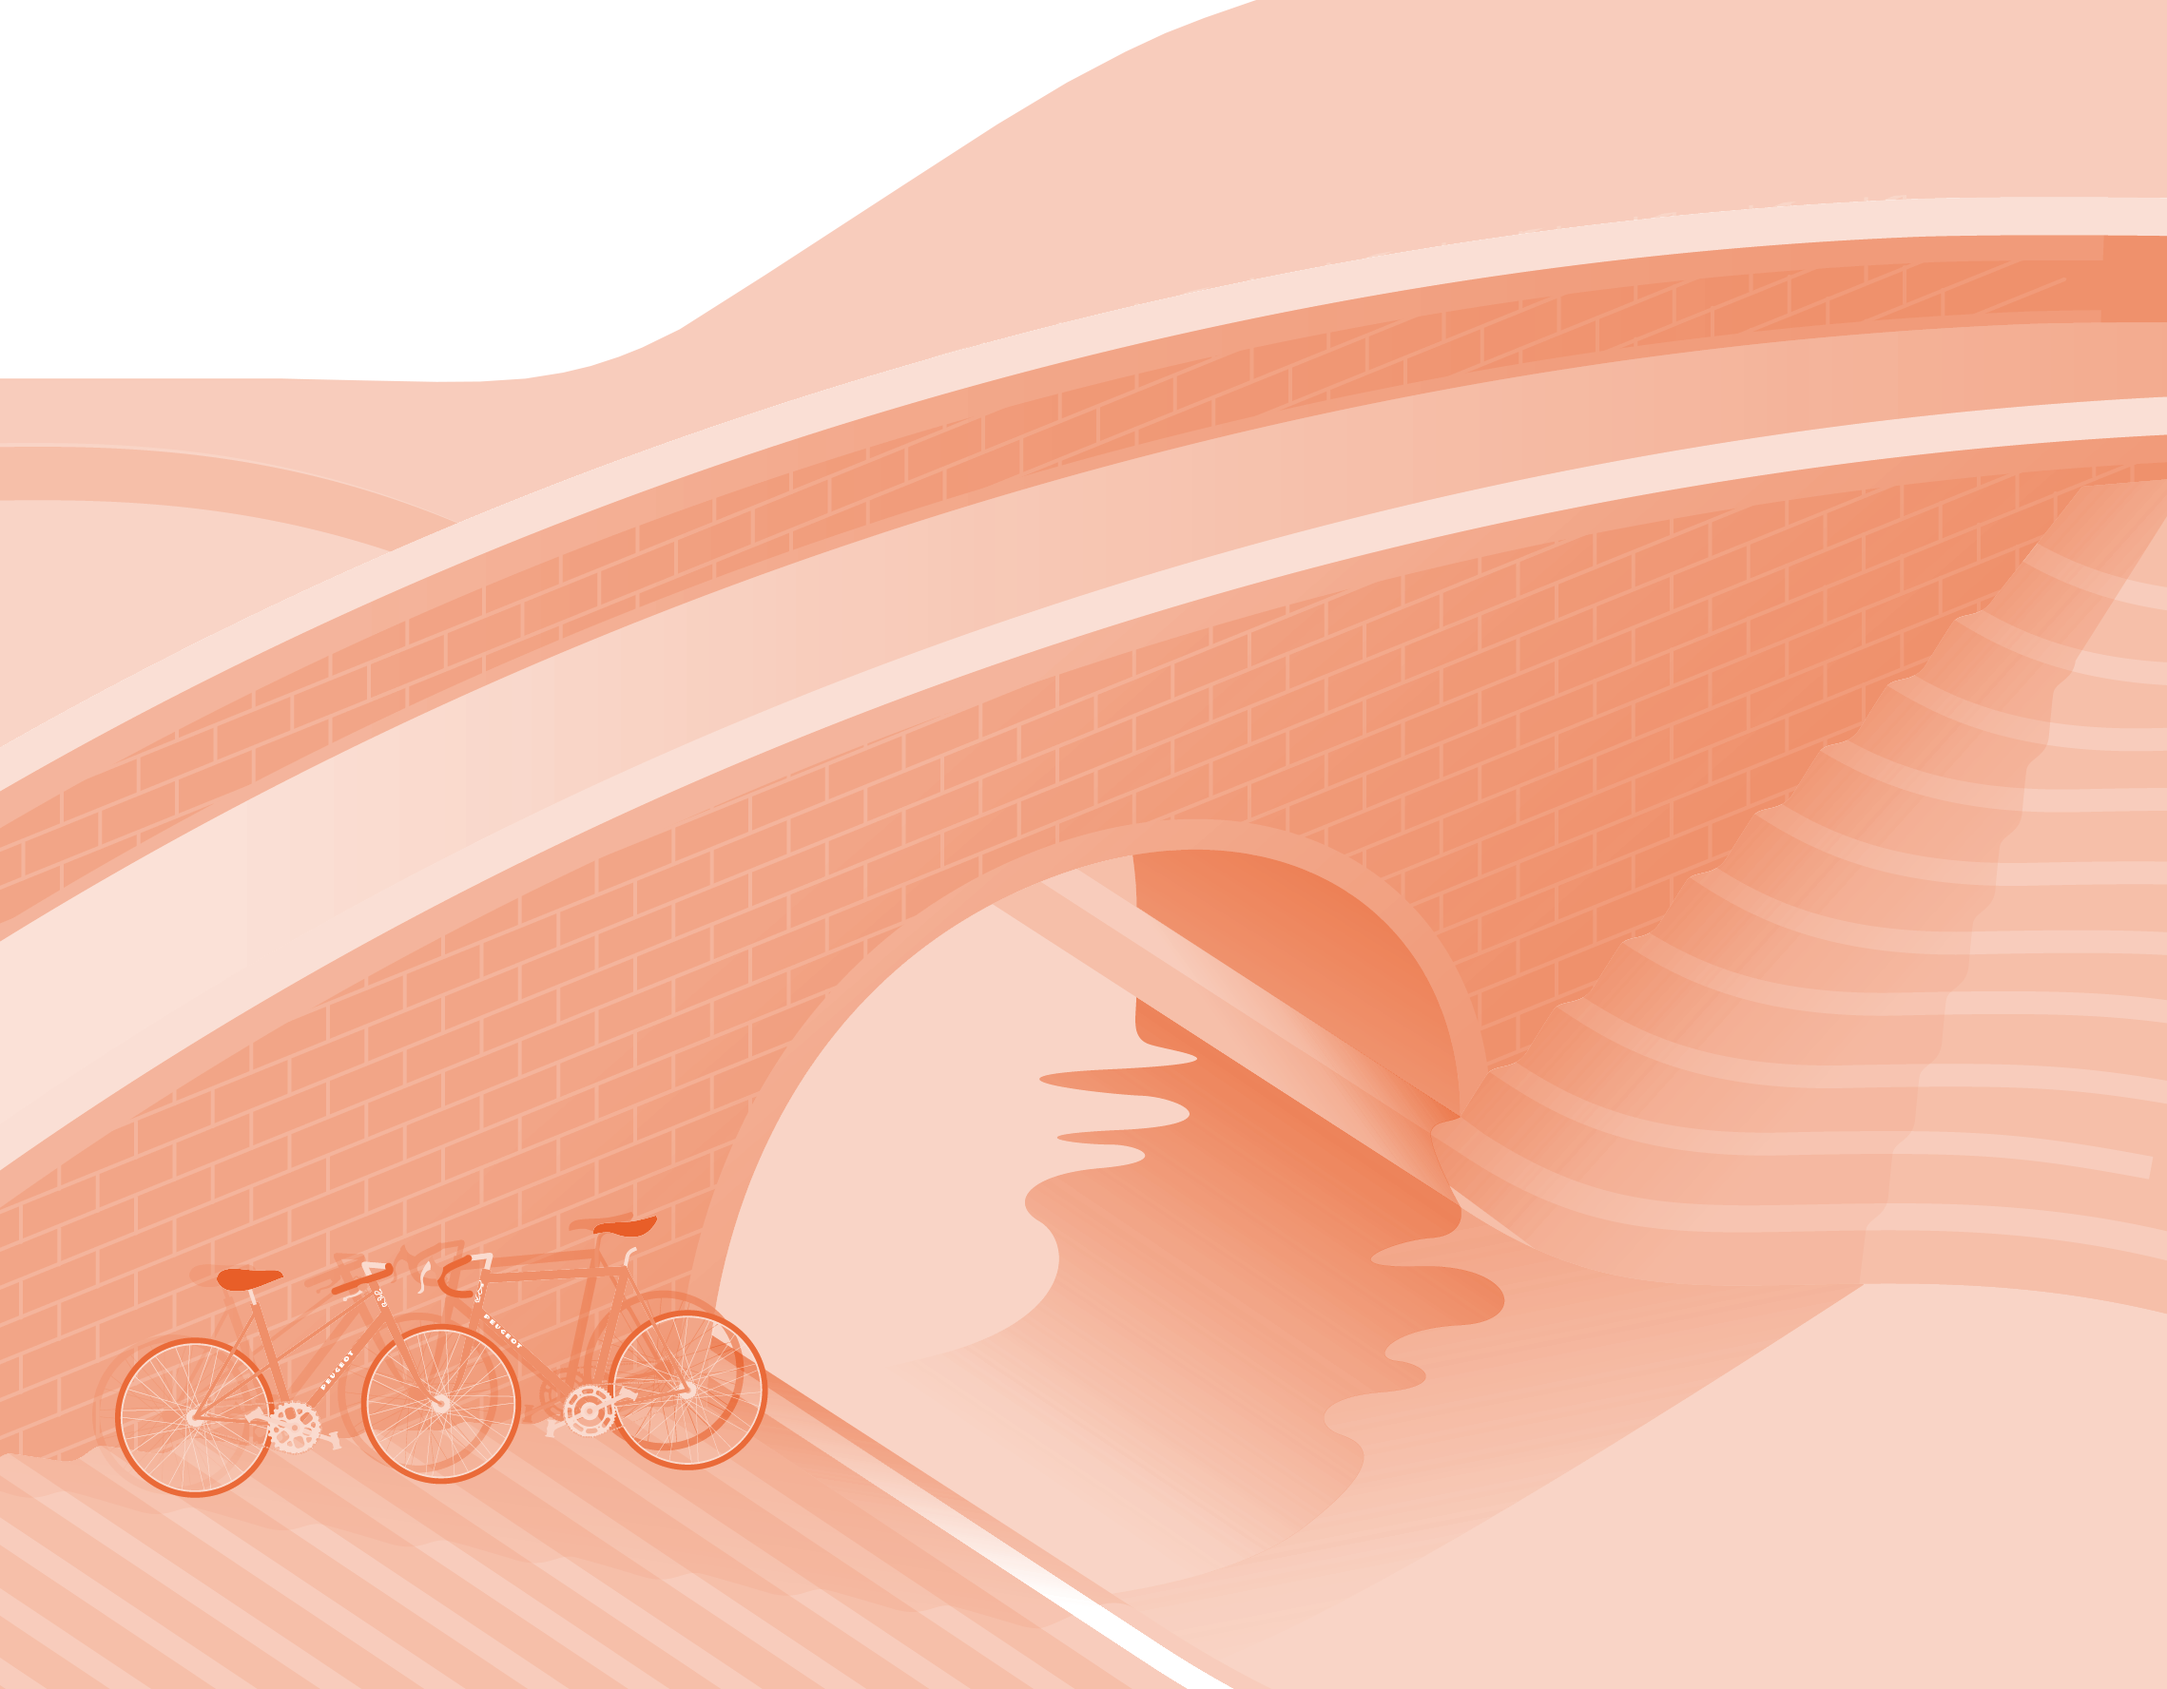
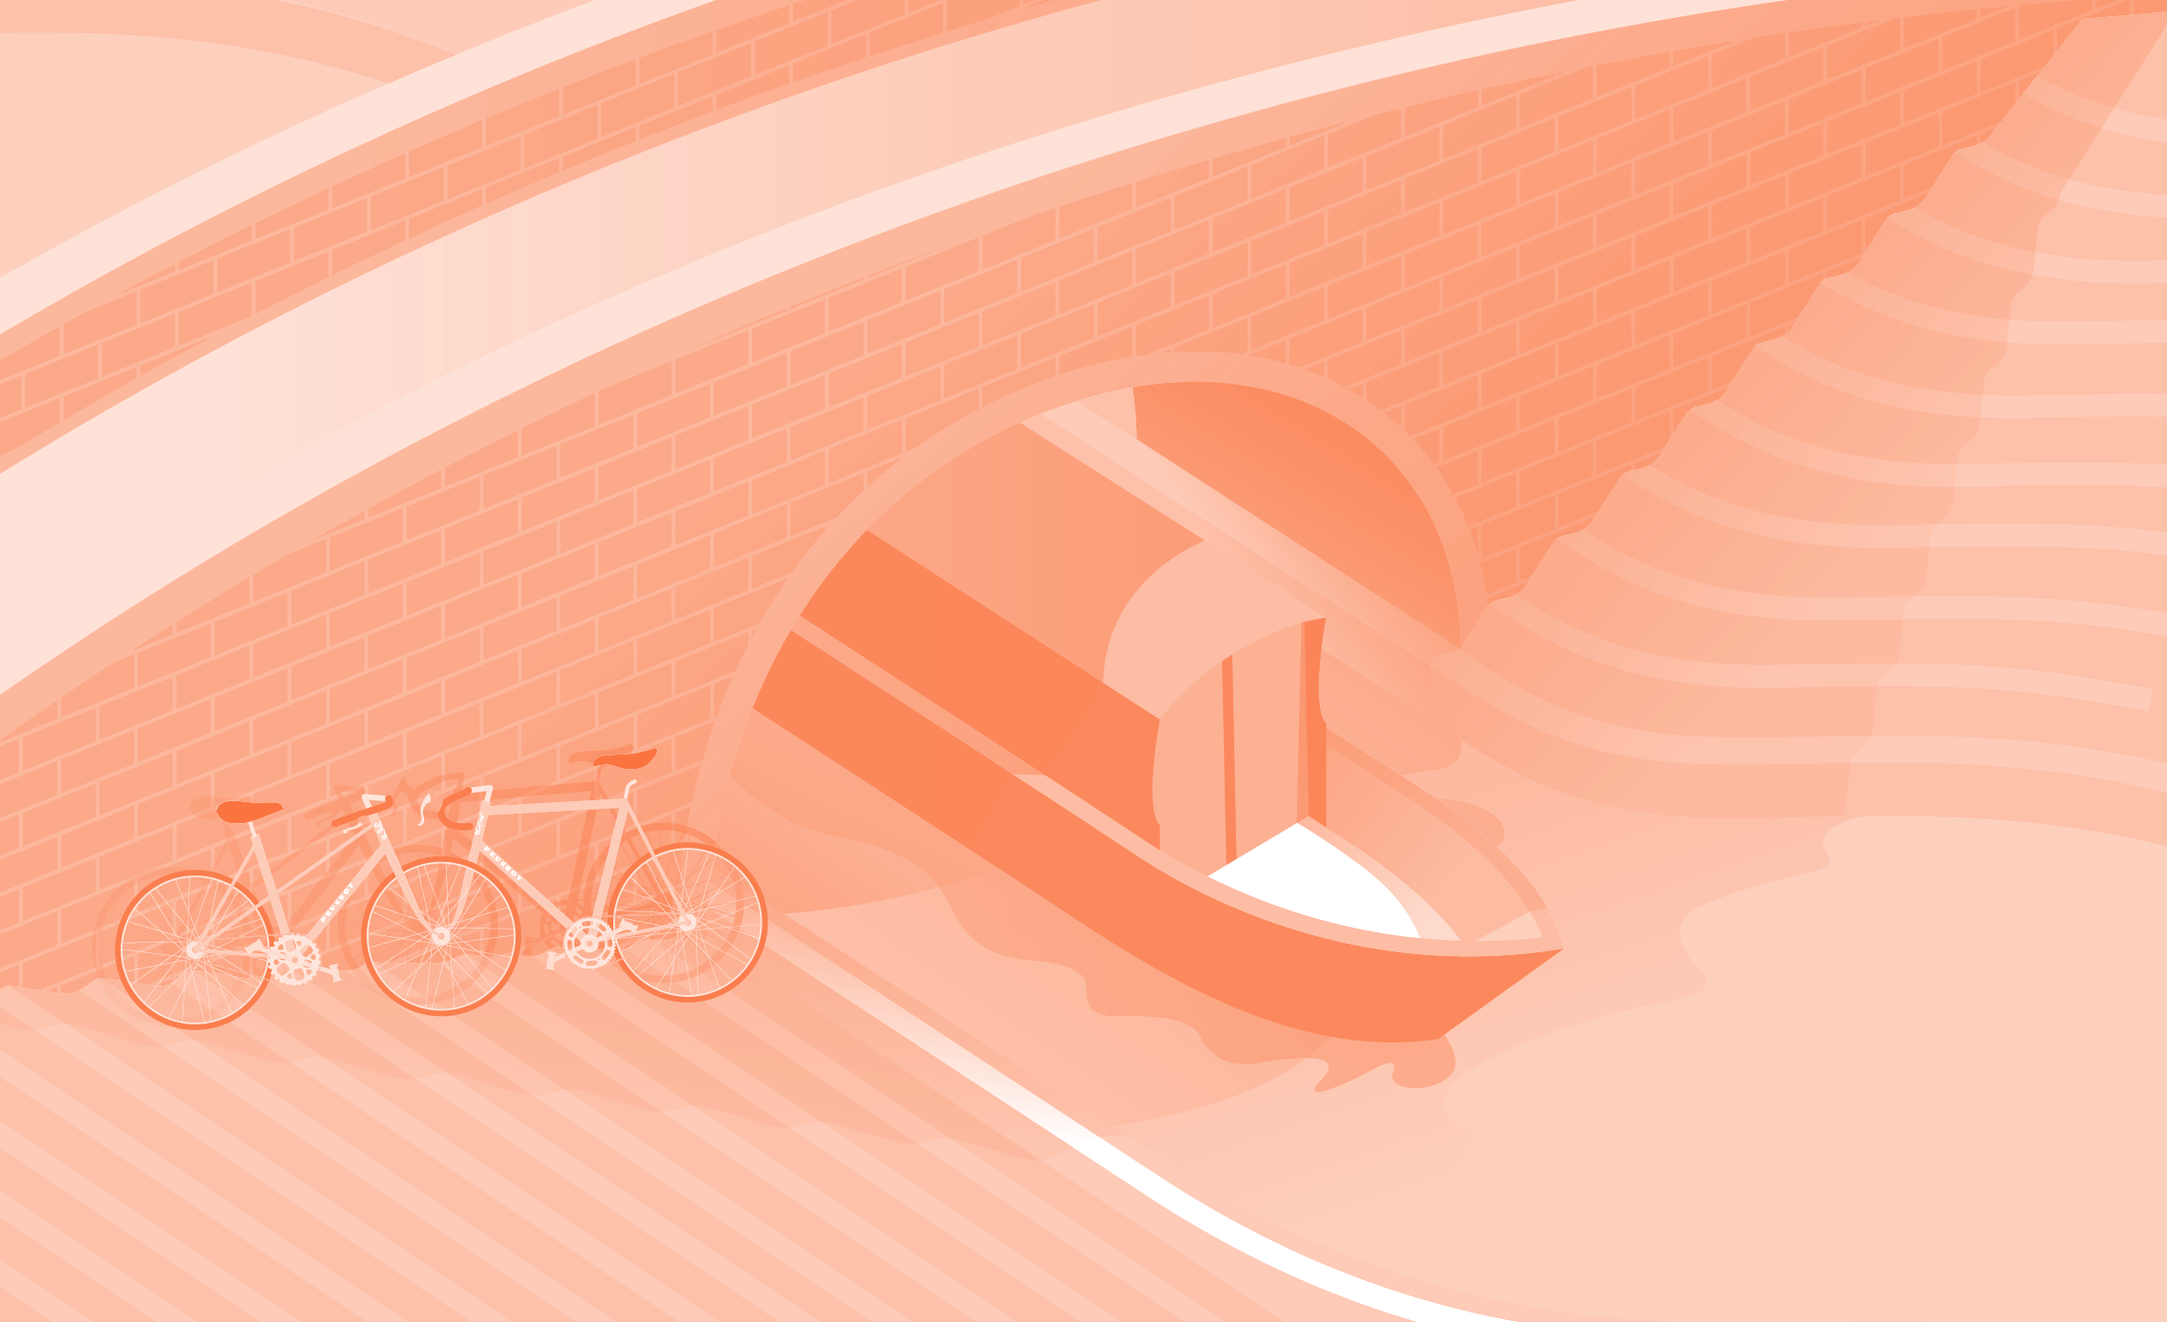
Add files via upload
Update javascript to add more.

diff --git a/mimkarlwedding/scripts/modal.js b/mimkarlwedding/scripts/modal.js
@@ -1,17 +1,14 @@
+
+/// OPEN MODAL ///
 function launchModal() {
   let modal = document.getElementById('modal')
   modal.style.display = 'flex'
 }
 
 document.getElementById('RSVP-button').onclick = launchModal
-
-function launchModal () {
-  let modal = document.getElementById('modal')
-  modal.style.display = 'flex'
-}
-
 document.getElementById('RSVP-button-2').onclick = launchModal
 
+/// CLOSE MODAL ///
 function closeModal() {
   let modal = document.getElementById('modal')
   modal.style.display = 'none'
@@ -20,29 +17,58 @@ function closeModal() {
 document.getElementById('modal-overlay').onclick = closeModal
 document.getElementById('modal-cross').onclick = closeModal
 
-function addPerson() {
-  let modal = document.getElementById('person2')
-  modal.style.display = 'flex'
+/// SHOW ROW CONTAINING THE FORM FIELDS FOR SECOND PERSON ///
+function addPersonRow() {
+  let row = document.getElementById('person2')
+  row.style.display = 'flex'
+  hideAddPersonButton()
+  removePersonRow()
+  setTimeout(function() {
+    row.classList.toggle('show')
+  })
 }
 
-document.getElementById('add-person-button').onclick = addPerson
-
-function hideAddPerson() {
+/// HIDE ROW CONTAINING ADD PERSON BUTTON ///
+function hideAddPersonButton() {
   let button = document.getElementById('add-person-button-row')
   button.style.display = 'none'
-  // setTimeout(function () {
-  //
-  // }, 3000);
 }
 
-document.getElementById('add-person-button').onclick = hideAddPerson
-
-
-function removePerson() {
-  let modal = document.getElementById('remove-person-button-row')
-  modal.style.display = 'flex'
+/// SHOW ROW CONTAINING MINUS PERSON BUTTON ///
+function removePersonRow() {
+  let row = document.getElementById('remove-person-button-row')
+  row.style.display = 'flex'
+  setTimeout(function() {
+    row.classList.toggle('show')
+  })
 }
 
-document.getElementById('add-person-button').onclick = removePerson
+document.getElementById('add-person-button').onclick = addPersonRow
 
-// document.getElementById('add-person-button').onclick = addPerson; removePerson; hideAddPerson;
+/// HIDE ROW CONTAINING SECOND PERSON FIELDS ///
+function hideSecondPersonRow() {
+  let row = document.getElementById('person2')
+  row.style.display = ''
+  // setTimeout(function() {
+  //   row.classList.toggle('hide')
+  // })
+  hideMinusPersonButton()
+  showAddPersonButton()
+}
+
+/// HIDE ROW CONTAINING MINUS PERSON BUTTON ///
+function hideMinusPersonButton() {
+  let row = document.getElementById('remove-person-button-row')
+  row.style.display = 'none'
+}
+
+/// SHOW ROW CONTAINING ADD PERSON BUTTON ///
+function showAddPersonButton() {
+  let row = document.getElementById('add-person-button-row')
+  row.style.display = 'flex'
+  setTimeout(function() {
+    row.classList.toggle('show')
+  })
+}
+
+document.getElementById('remove-person-button').onclick = hideSecondPersonRow

diff --git a/mimkarlwedding/css/styles.css b/mimkarlwedding/css/styles.css
@@ -104,15 +104,49 @@ input:focus {
 
 #person2 {
   display: none;
+  /* opacity: 0; */
+  transition: opacity 0.4s ease-in-out;
+}
+
+/* #person2.hide {
+  opacity: 0;
+} */
+
+#person2.show {
+  opacity: 1;
 }
 
 #add-person-button {
-  display: flex;
+}
+
+#add-person-button-row {
+  /* display: flex; */
   align-content: center;
+  transition: opacity 0.4s ease-in-out;
+}
+
+#add-person-button-row.hide {
+  /* display: none; */
+  opacity: 0;
+}
+
+#add-person-button-row.show {
+  opacity: 1;
 }
 
 #remove-person-button-row {
   display: none;
+  /* opacity: 0; */
+  transition: opacity 0.4s ease-in-out;
+}
+
+#remove-person-button-row.show {
+  opacity: 1;
+}
+
+#remove-person-button-row.hide {
+  /* display: none; */
+  opacity: 0;
 }
 
 p {
@@ -272,7 +306,7 @@ footer {
 
 .button-text-container {
   position: absolute;
-  bottom: 50px;
+  top: 50px;
   width: 100%;
   text-align: center;
 }
@@ -297,7 +331,7 @@ footer {
   position: sticky;
   display: flex;
   flex-wrap: nowrap;
-  align-items: center;
+  /* align-items: center; */
   top: 0;
 }
 

diff --git a/mimkarlwedding/index.html b/mimkarlwedding/index.html
@@ -81,7 +81,7 @@
         <h3 id="venue-info">Friday 9th April 2021<br>Dodmoor House<br>Northamptonshire<br>NN7 4TA</h3>
         <button id="RSVP-button">RSVP</button>
       </div>
-      <img id="hero-image" src="images/CanalIllustrationOrangeBridge2@4x.png">
+      <img id="hero-image" src="images/CanalIllustrationPeach2.png">
     </div>
   <div class="main-content-container">
     <div id="arrow-down"><i class="fa fa-arrow-circle-o-down" aria-hidden="true"></i></div>
